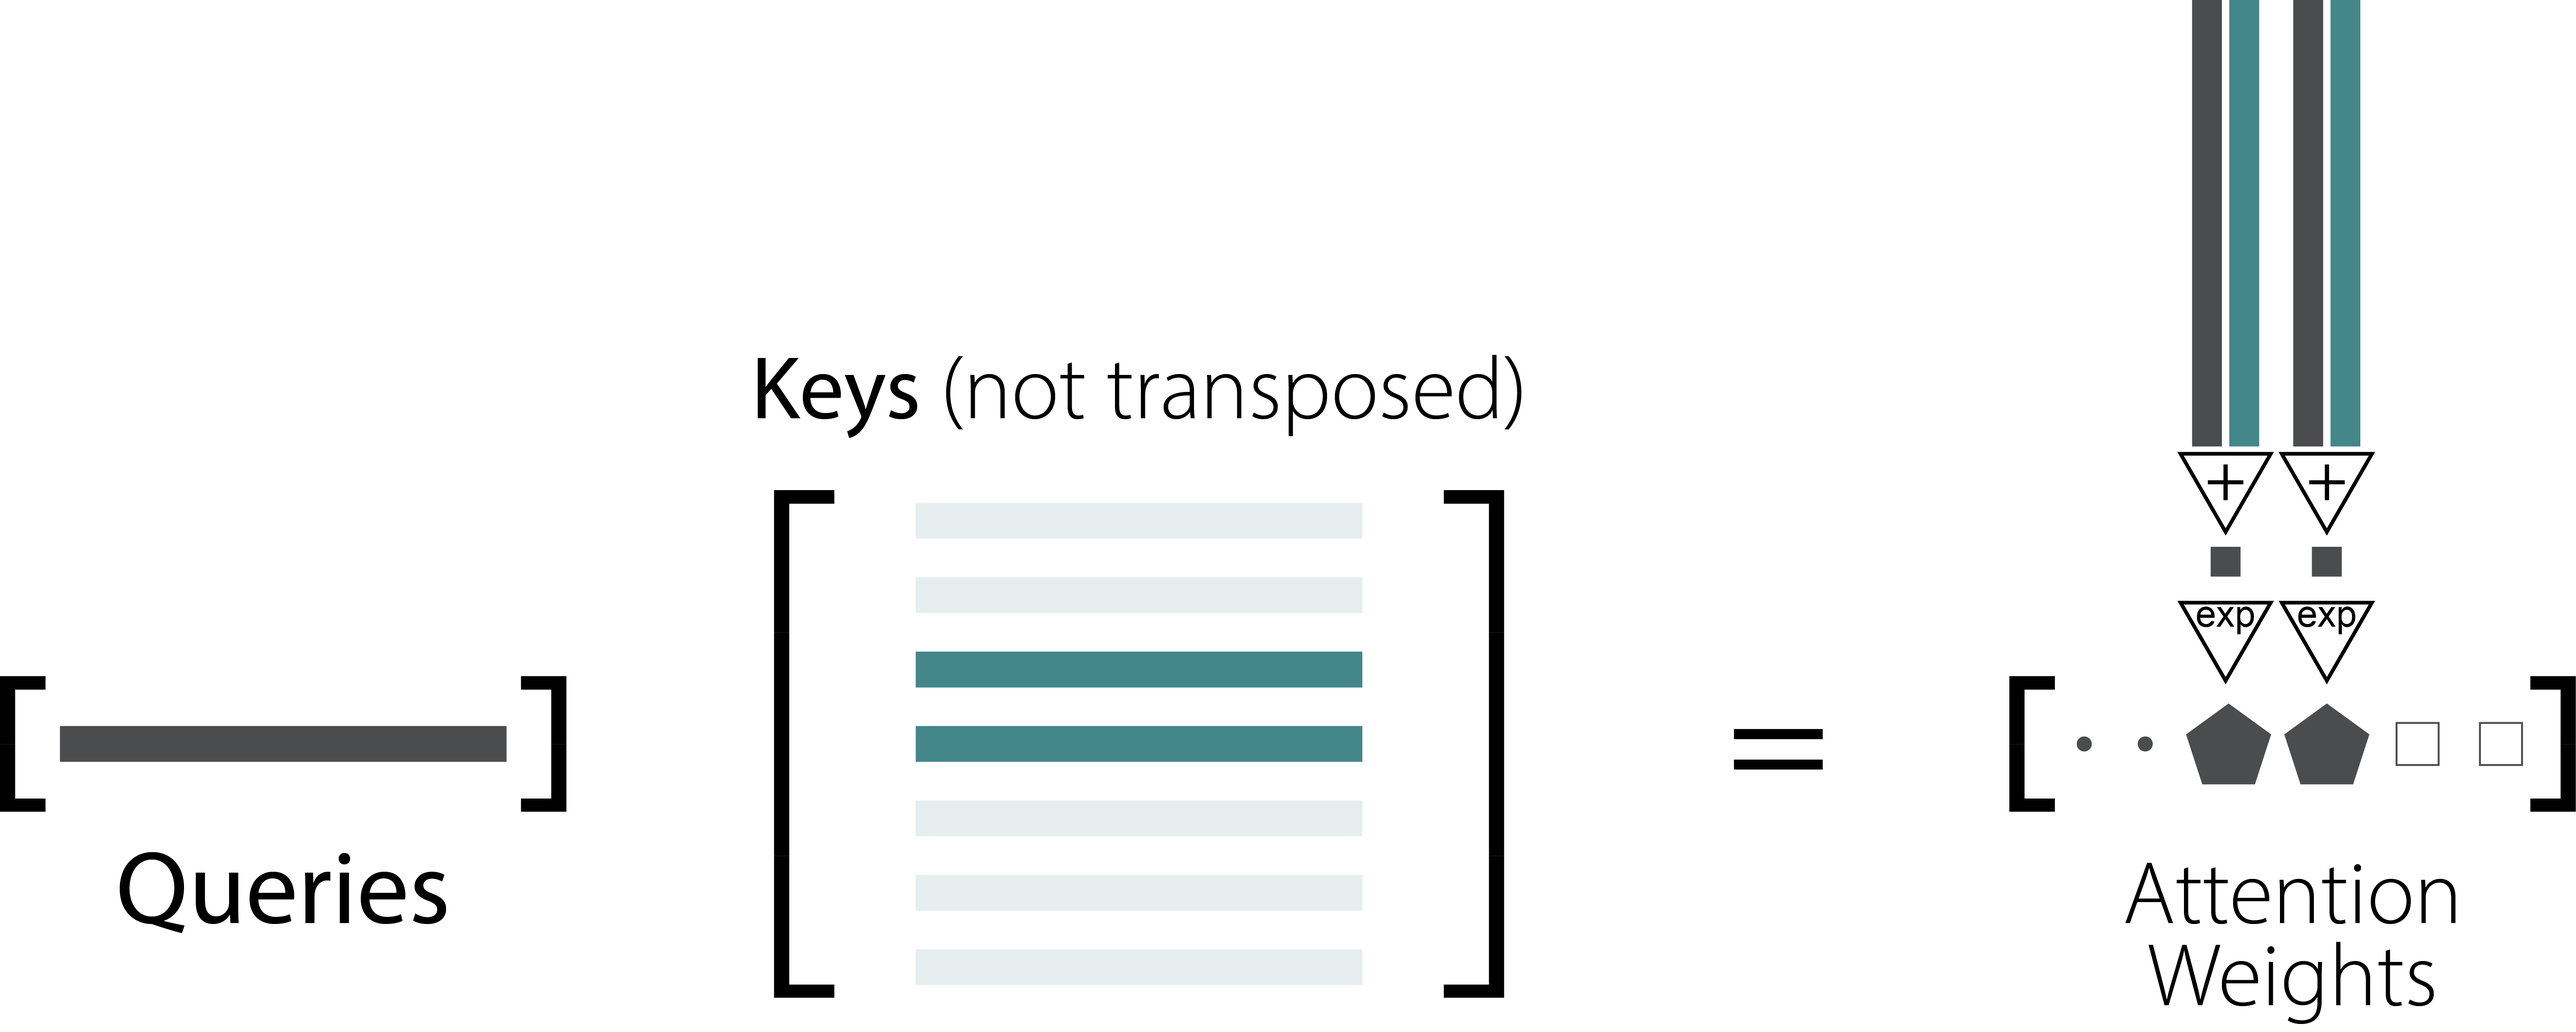
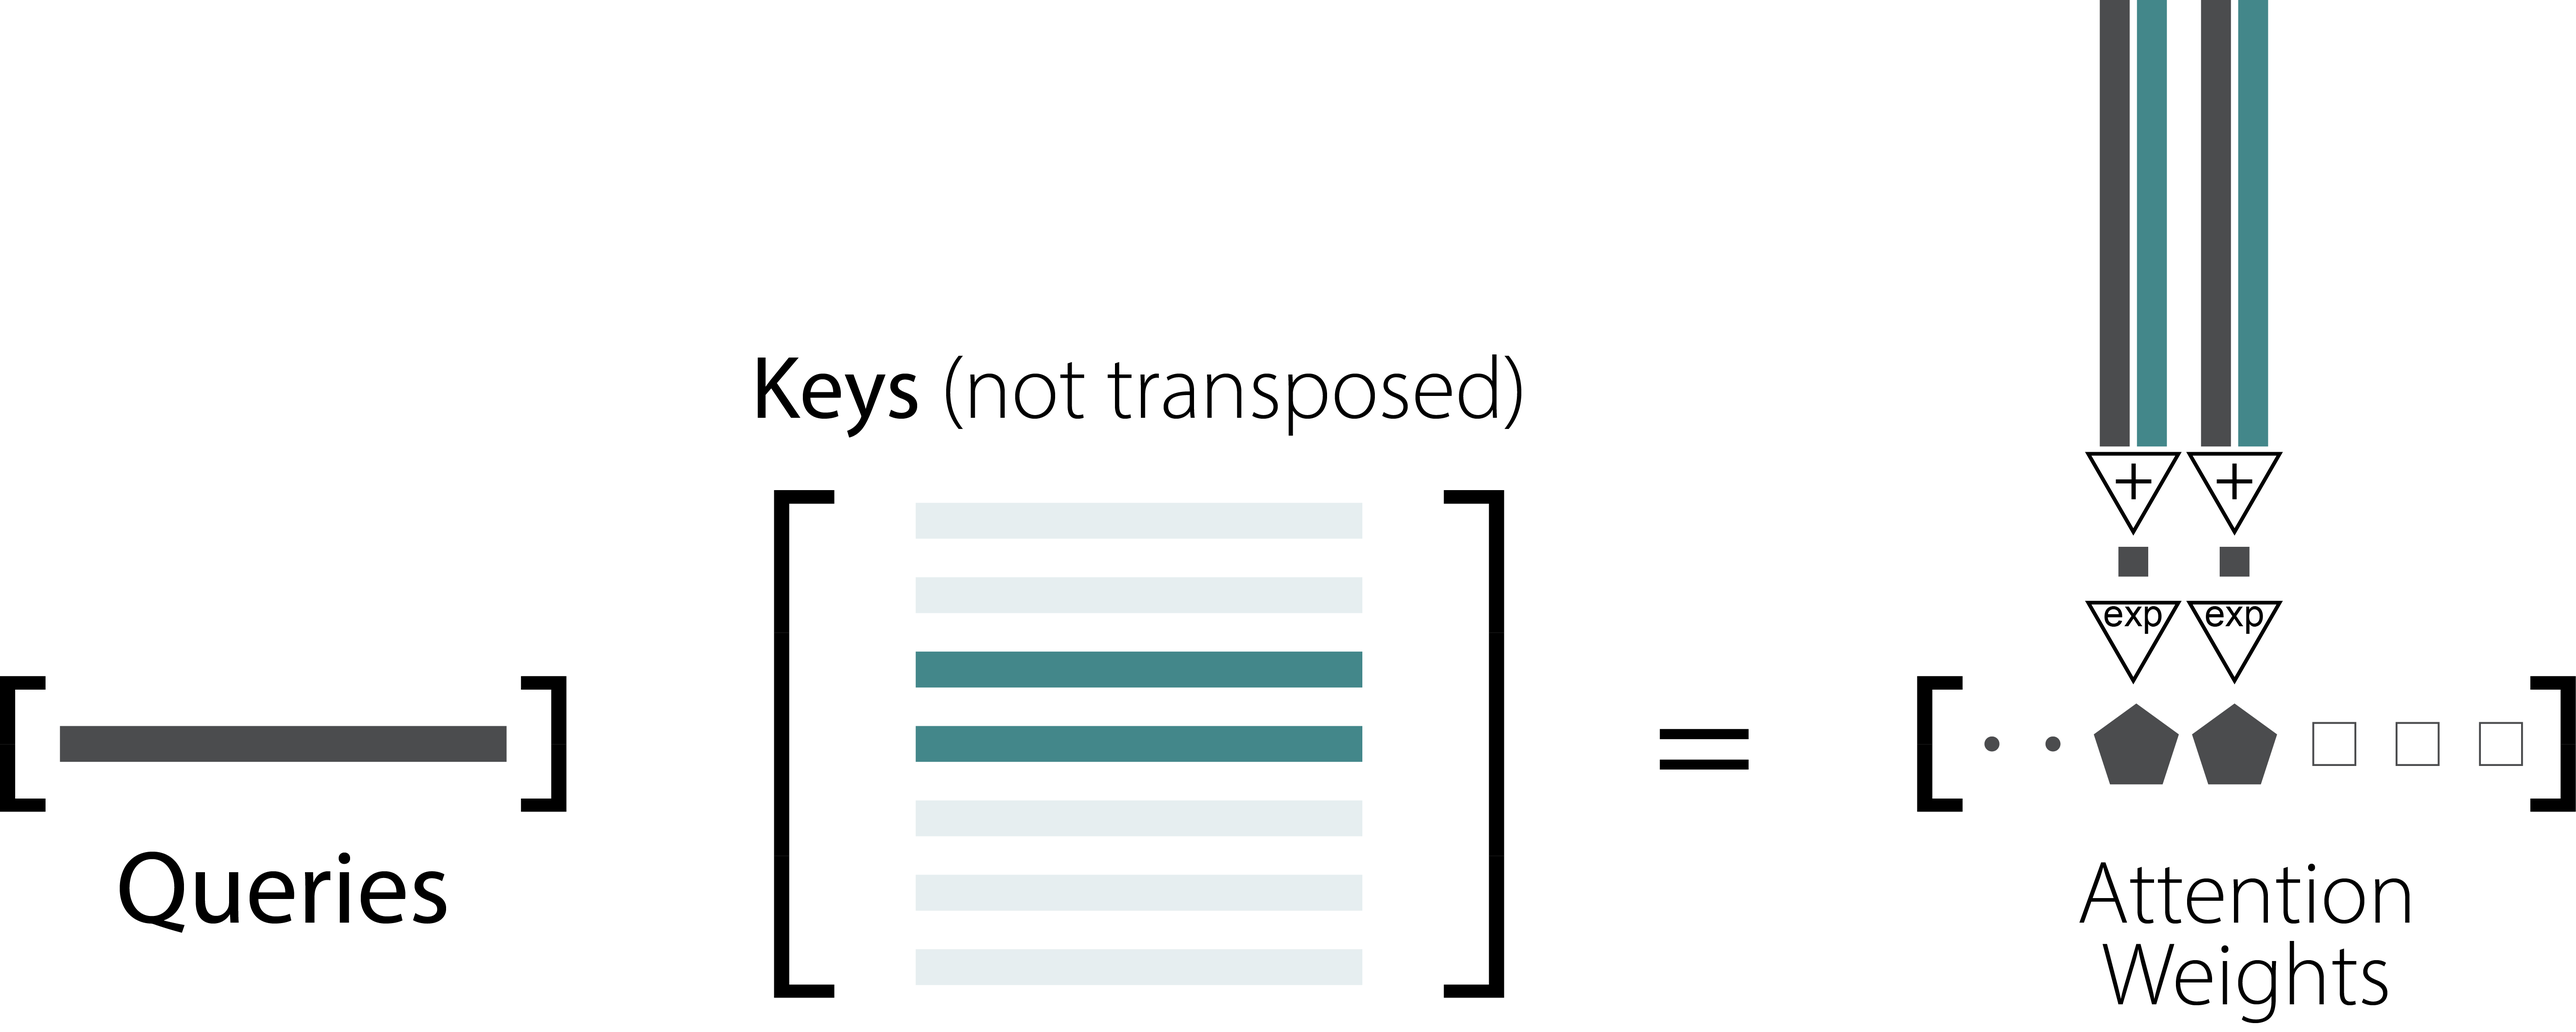
blog::flashattention correct figures

Changed region(s): [[0.8112, 0.0, 0.936, 0.654], [0.624, 0.654, 0.936, 0.8097], [0.8112, 0.8408, 0.9672, 0.9965]]

diff --git a/_posts/2026-04-01-flashattention-1.md b/_posts/2026-04-01-flashattention-1.md
@@ -163,9 +163,11 @@ At its heart, FlashAttention consists of three separate aspects:
 2. Normalization factor
 3. Numerical stability
 
-The core computation is what I call matmul-exp-dot-product, which captures the end-to-end computation from multiplying $\matx{Q}$ by $\matx{K}^\top$, exponentiating (softmax numerator), and taking the dot product of the result with the library of value vectors in $\matx{V}$.
+The core computation is what I call matmul-exp-dot-product, which captures the end-to-end computation by multiplying $\matx{Q}$ by $\matx{K}^\top$, exponentiating (softmax numerator), and taking the dot product of the result with the library of value vectors in $\matx{V}$.
 
-The second operation is necessary to ensure proper normalization of the weighted averaging discussed in Figure 1. The third is the familiar idea that we don't want to exponentiate large values in the computation of [the softmax function]({% post_url 2026-03-05-softmax-gradient %}), so we first subtract the largest value from all input elements before exponentiating.
+The second operation is necessary to ensure proper normalization of the weighted averaging discussed in Figure 1.
+
+The third is the familiar idea that we don't want to exponentiate large values in the computation of [the softmax function]({% post_url 2026-03-05-softmax-gradient %}), so we first subtract the largest value from all input elements before exponentiating.
 
 I will strip away (2) and (3) and focus on the matmul-exp-dot-product to show how this is done end-to-end without moving data between HBM and SRAM more than necessary.
 
@@ -235,22 +237,17 @@ The matmul-exp-dot-product operation I mentioned earlier should be clearly ident
         <figure class="text-center mb-0">
             {% include figure.liquid loading="eager" path="assets/img/flashattention-matmulexp.png" class="img-fluid mb-2" %}
             <figcaption class="caption mt-3">
-                <b>Figure 3</b>. Matmul-exp operations in the barebones attention \eqref{eq:barebones}.
+                <b>Figure 3</b>. Matmul-exp operations in the barebones attention \eqref{eq:barebones}. We have chosen a block from $K$ (its third and fourth rows) to compute the attention scores for a single query. The "Attention Weights" shows the logical representation of the final result, by indicating the previously computed values (first two) as small circles (in HBM), the values just computed (next two) as pentograms (in SRAM), and yet-uncomputed values (last three) as squares.
             </figcaption>
-        </figure>
+        </figure>{ : #fig-matmulexp }
     </div>
-</div>{ : #fig-matmulexp }
+</div>
 
 
 
 > ##### KEY POINT
 >
 > At its core, **FlashAttention** iteratively computes Eq. $\eqref{eq:barebones}$ by selecting a block of rows from $\matx{K}$ and $\matx{V}$ (say from row $n_1$ to row $n_2$).
-{: .block-tip }
-
-> ##### Tip
->
-> test tip block.
 {: .block-tip }
 
 Figure 4 below shows this graphically.
@@ -260,7 +257,7 @@ Figure 4 below shows this graphically.
         <figure class="text-center mb-0">
             {% include figure.liquid loading="eager" path="assets/img/flashattention-barebones.png" class="img-fluid mb-2" %}
             <figcaption class="caption mt-3">
-                <b>Figure 4</b>. End-to-end computation of barebones matmul-exp-dot-product attention \eqref{eq:barebones}. The computation is iterative, so the values accumulate, which is evident in the penultimate step (notice the already-computed grayed out values). Note that because we are ignoring the normalization factor (Aspect 2 of FlashAttention), the final vector is "fatter" than it should be (for comparison, Figure 2 performs the normalization).
+                <b>Figure 4</b>. End-to-end computation of barebones matmul-exp-dot-product attention \eqref{eq:barebones}. The computation is iterative, so the values accumulate, which is evident in the penultimate step (notice the already-computed grayed out values which we recall from HBM into SRAM for accumulation). Note that because we are ignoring the normalization factor (Aspect 2 of FlashAttention), the final vector is "fatter" than it should be (for comparison, Figure 2 performs the normalization).
             </figcaption>
         </figure>
     </div>
